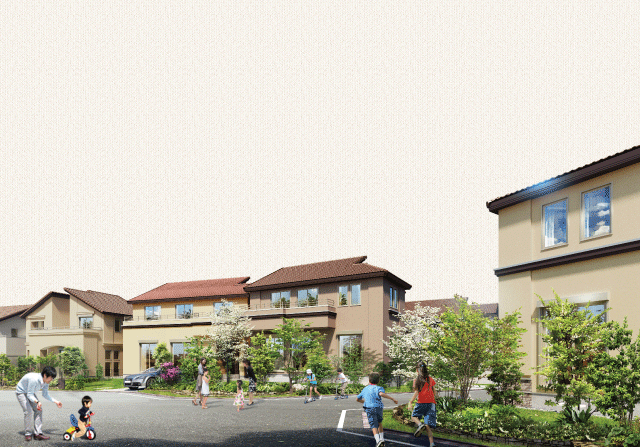
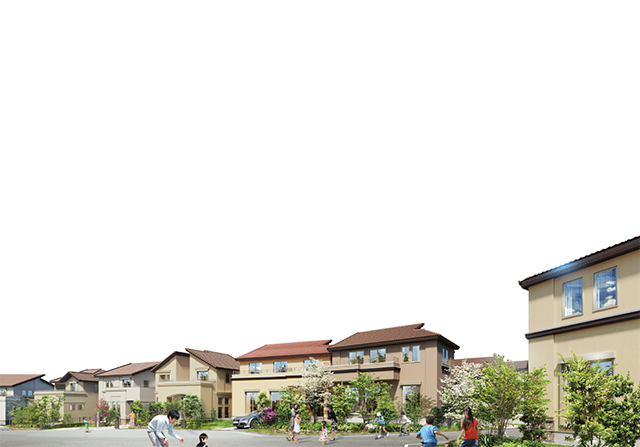
b

diff --git a/leafia_minamiosawa_4th/css/style.css b/leafia_minamiosawa_4th/css/style.css
@@ -6,14 +6,15 @@
 		width: 100%;
 		height: 560px;
 		background-size: cover;
+		position: relative;
 	}
 	.mainSlide .slide{
 		position: absolute;
 		top: 0;
 		left: 0;
-		background: url(../imgs/toppage/slide.png) no-repeat;
+		background: url(../imgs/toppage/slide.png) repeat-x;
 		width: 100%;
-		height: 334px;
+		height: 560px;
 	}
 		
 	.mainSlide .logo {
@@ -384,7 +385,7 @@ body div.pickup ul.pickupList li img.grayout {
 			height: 447px;
 		}
 		.mainSlide .slide{
-			background: url(../imgs/toppage/slide-mb.png) no-repeat center;
+			background: url(../imgs/toppage/slide-mb.png) repeat-x center;
 		}
 		.capindex{
 			padding-top: 40px;
